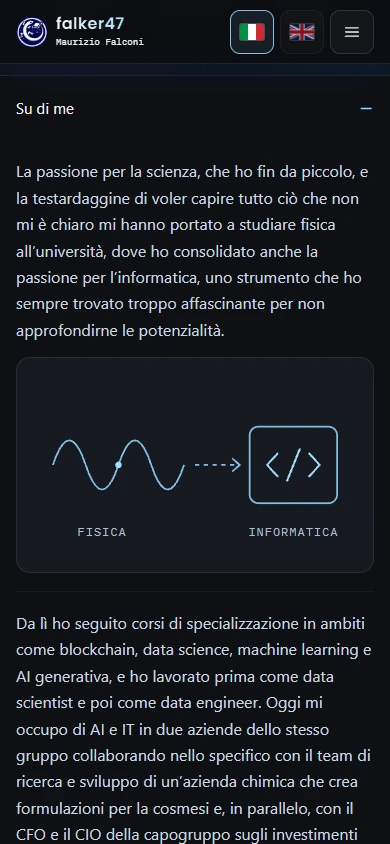
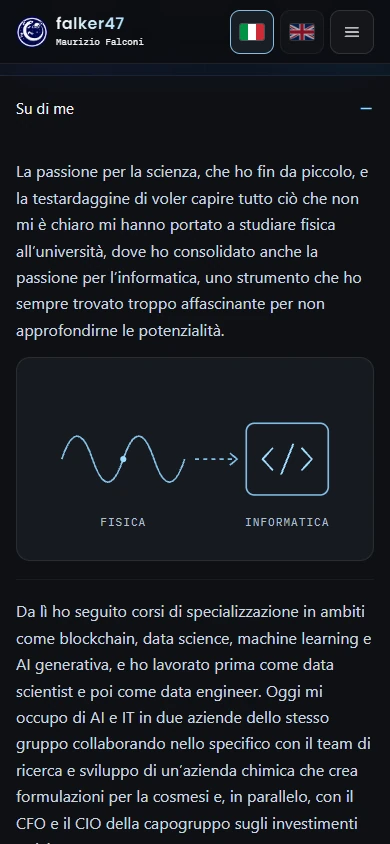
V4: review fixes for "Su di me"
The studies labels sit centred and inside the frame in both languages,
row text fills its column (1.25:1, no empty band at 1440 px), and the
rating says "su 5" / "out of 5" to screen readers.

diff --git a/src/styles/sections.css b/src/styles/sections.css
@@ -21,7 +21,7 @@
 /* Each paragraph, then its figure; from 900 px they alternate sides (P1 G1 / G2 P2 ...). */
 .about-row {display:grid;gap:14px;padding:18px 0;border-top:1px solid var(--rule-soft)}
 .about-row:first-child {border-top:0}
-.about-row p {font-size:16px;line-height:1.65;color:var(--secondary);margin:0;max-width:620px}
+.about-row p {font-size:16px;line-height:1.65;color:var(--secondary);margin:0}
 .about-figure {margin:0;padding:14px;border:1px solid var(--rule);border-radius:14px;background:var(--surface)}
 .studies-drawing {display:block;width:100%;max-width:340px;height:auto;margin:0 auto}
 .studies-line {stroke:var(--stroke);stroke-width:1.6}
@@ -223,8 +223,8 @@ a.result:hover .result-label {color:var(--paper)}
 }
 @media(min-width:900px) {
 /* Paragraph and figure side by side, alternating; the lessons text beside the two portals. */
-.about-row {grid-template-columns:minmax(0,1.45fr) minmax(0,1fr);column-gap:40px;align-items:center}
-.about-row:nth-child(even) {grid-template-columns:minmax(0,1fr) minmax(0,1.45fr)}
+.about-row {grid-template-columns:minmax(0,1.25fr) minmax(0,1fr);column-gap:40px;align-items:center}
+.about-row:nth-child(even) {grid-template-columns:minmax(0,1fr) minmax(0,1.25fr)}
 .about-row:nth-child(even) .about-figure {order:-1}
 .lessons {grid-template-columns:minmax(0,1fr) minmax(0,1fr);column-gap:48px;align-items:start}
 }
